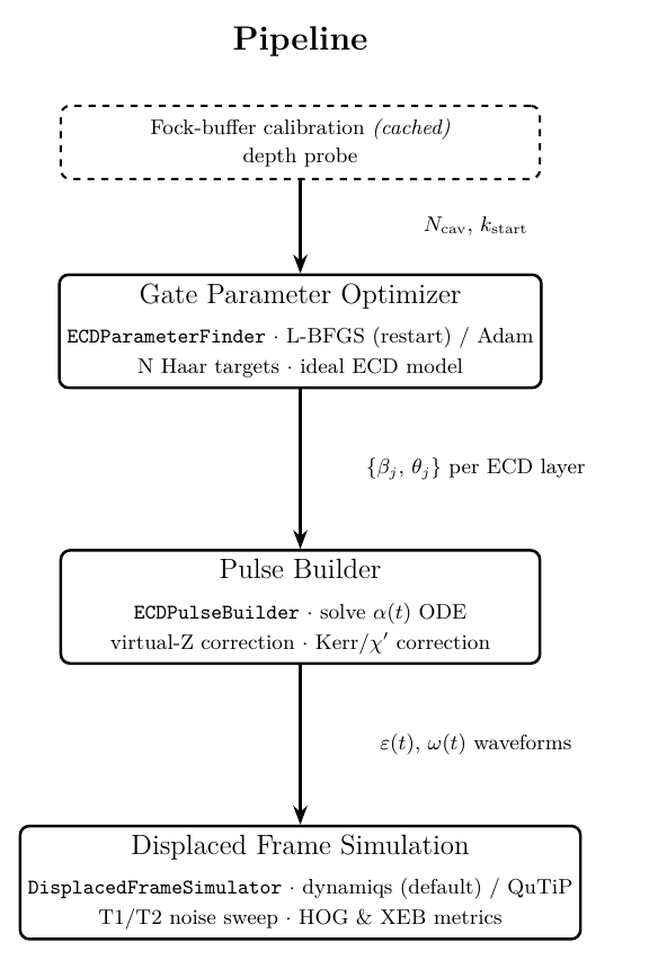
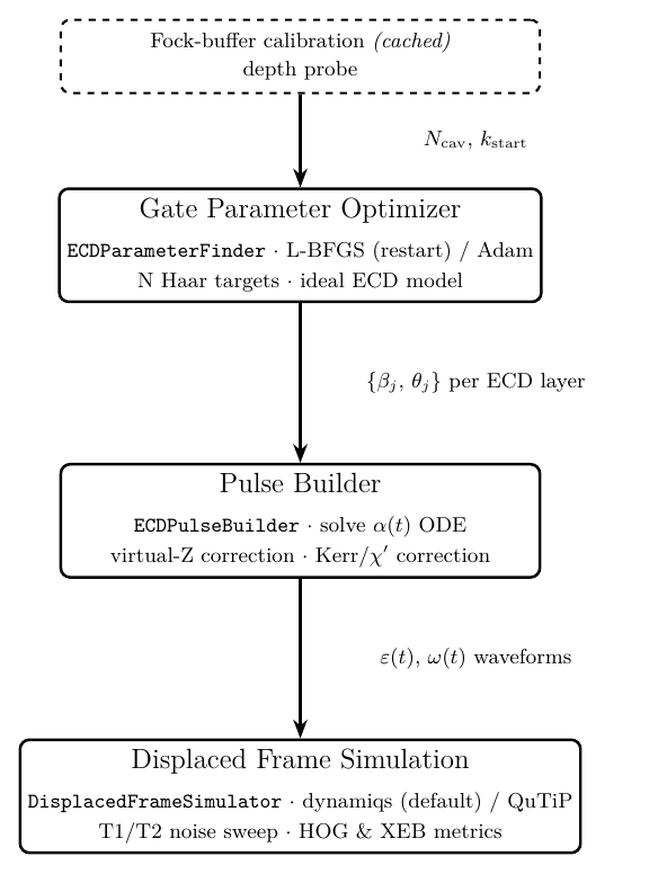
remove pipeline header in image; moved pipeline description to before the image

diff --git a/docs/pipeline_flow.tex b/docs/pipeline_flow.tex
@@ -30,9 +30,7 @@
     lbl/.style={font=\small, align=center, text width=4.4cm}
 ]
 
-\node[font=\Large\bfseries] (title) {Pipeline};
-
-\node[prep, below=0.6cm of title] (calib) {
+\node[prep] (calib) {
     Fock-buffer calibration \emph{(cached)} \\[1pt]
     depth probe
 };

diff --git a/README.md b/README.md
@@ -99,8 +99,6 @@ unless you pass `--overwrite`.
 
 ## Codebase overview
 
-![Pipeline](docs/pipeline_flow.png)
-
 The command-line pipeline begins in
 [`metriq_qudits/cli.py`](metriq_qudits/cli.py), which runs the following
 stages:
@@ -118,6 +116,9 @@ stages:
    Runs the noiseless simulation and optional T1/T2 sweep. The physical model and
    simulator are implemented in
    [`simulation/displaced_frame.py`](metriq_qudits/simulation/displaced_frame.py).
+
+![Pipeline](docs/pipeline_flow.png)
+
 
 #### Plotting
 
